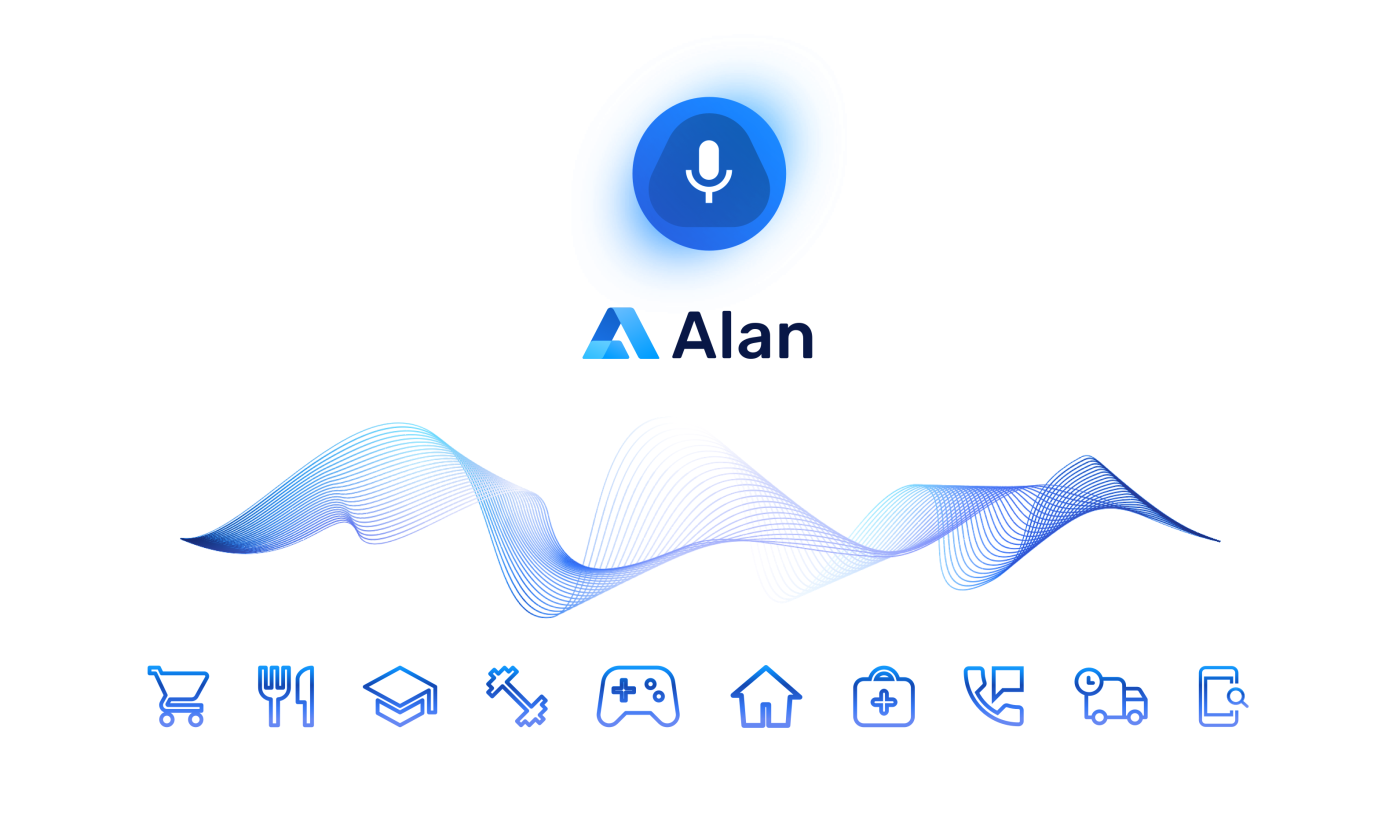
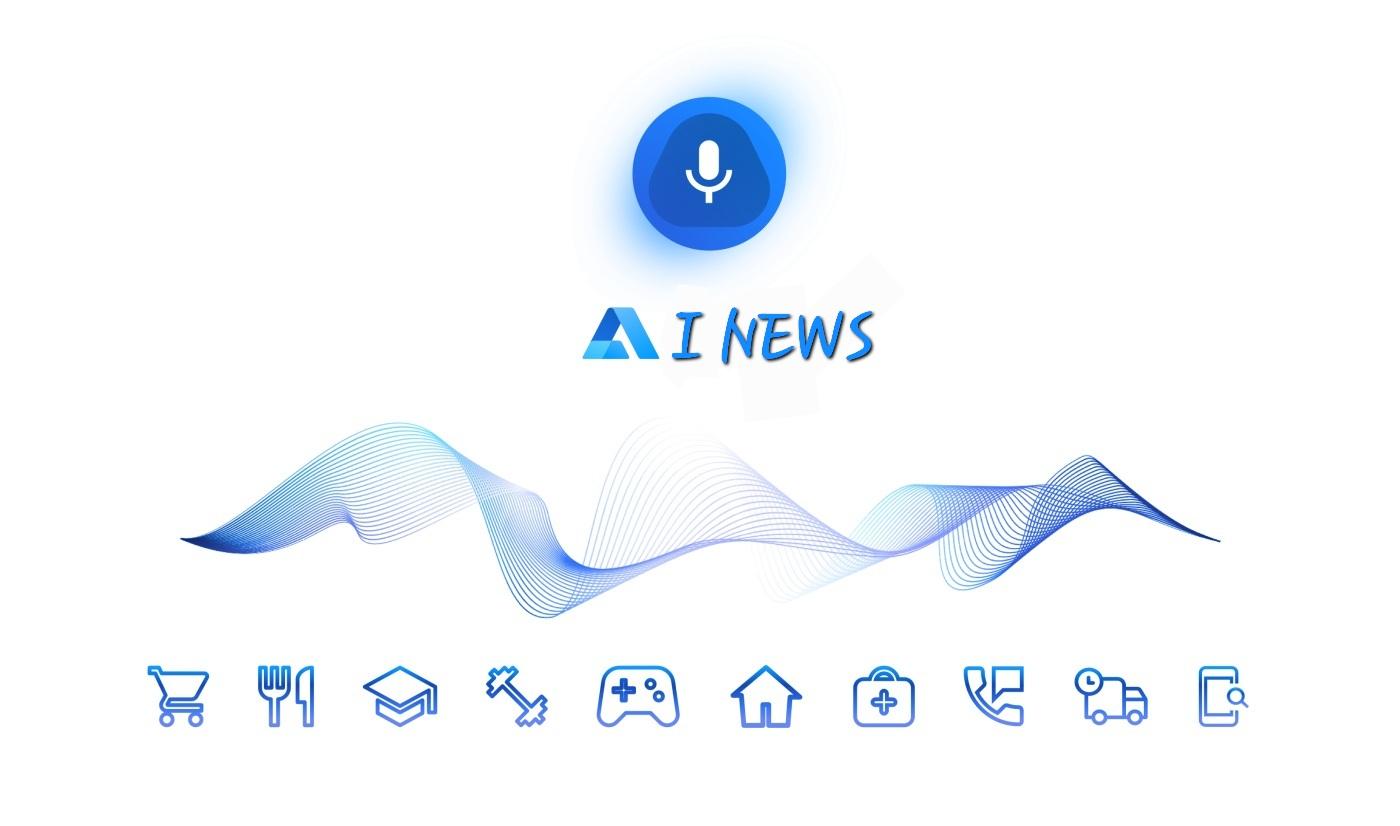
Done

diff --git a/src/Component/Header/Navbar/About.jsx b/src/Component/Header/Navbar/About.jsx
@@ -9,11 +9,11 @@ export const About = () => {
         <h1>About us</h1>
         <div className='about_text'>
         <p>
-        Alan is News and Weather is a Voice recognition Platform that allows you to add a voice interface to your app without overhead.
+          Al voice News application help you to see updated news with your Voice command 
         </p>
         
         <p>
-          Hear you can Search News by Your Voice Command 
+          You may now search for news using voice commands.
         
         </p>
 

diff --git a/src/Component/Header/Navbar/Navbar.jsx b/src/Component/Header/Navbar/Navbar.jsx
@@ -14,7 +14,7 @@ export const Navbar = (props) => {
     <>
     <div className='flex navbar' >
         <div className='app_name'>
-          <h3  >Alen <span>AI</span> NEWS & WEATHER </h3>
+          <h3  >Al <span>Voice</span> News </h3>
           
         </div>
         <div className='nav_name'  >
